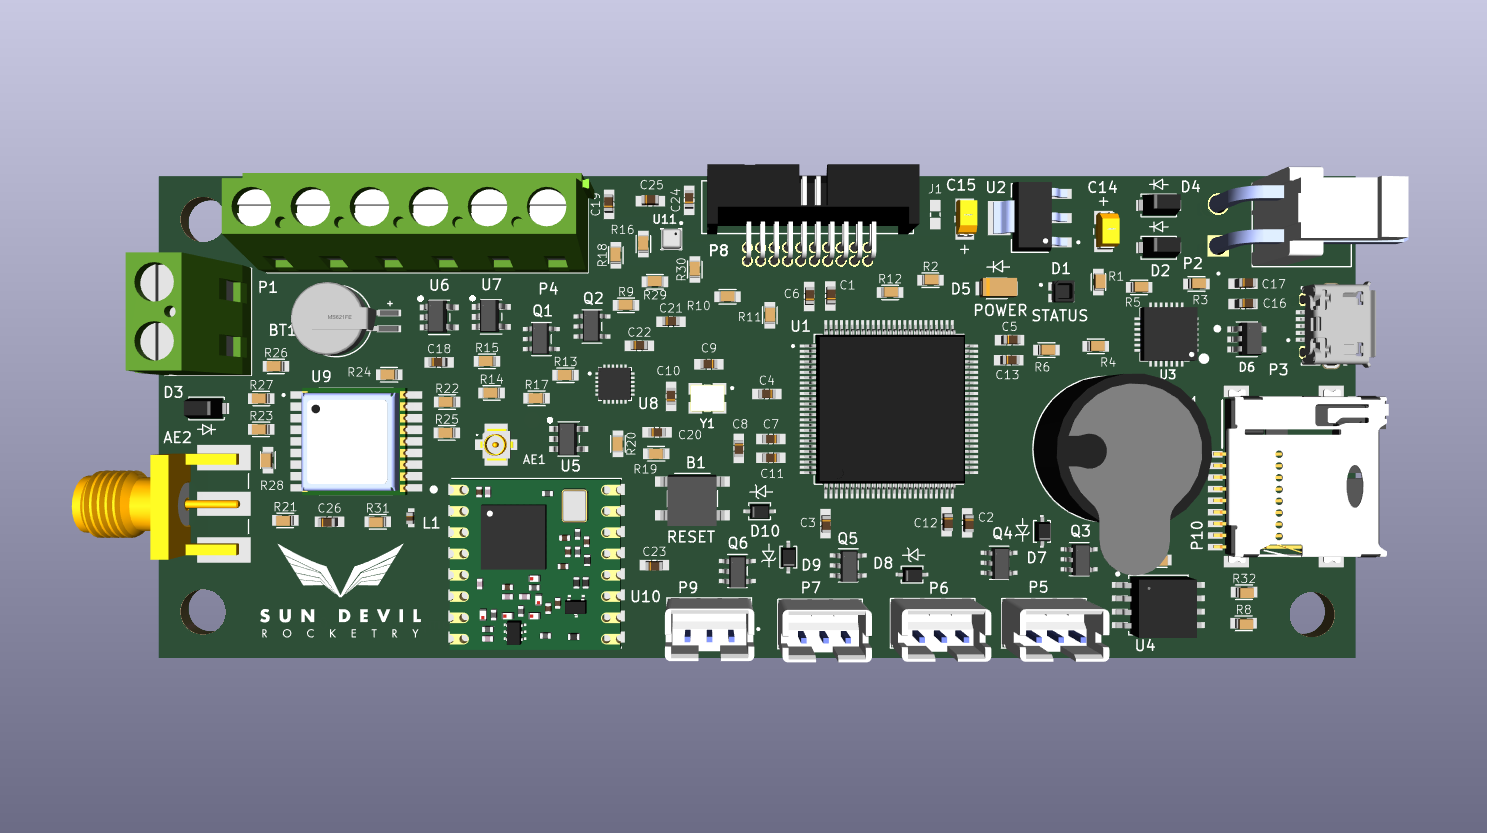
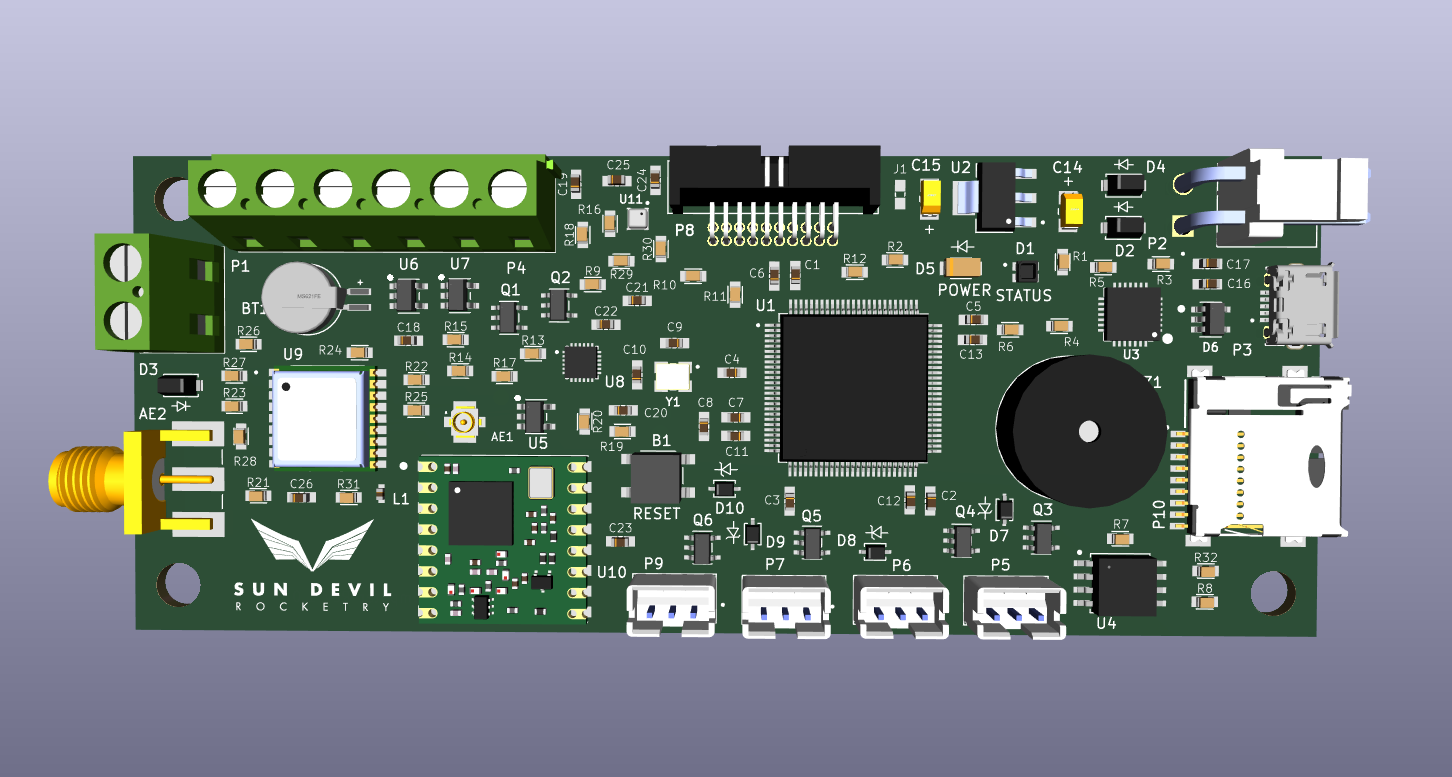
updated flight computer picture

Changed region(s): [[0.031, 0.1853, 0.9607, 0.834]]

diff --git a/index.html b/index.html
@@ -119,7 +119,7 @@
 											</ul>
 										</article>
 										<article>
-											<a href="construction.html" class="image"><img src="images/projects/Flight-Computer.png" alt="" /></a>
+											<a href="construction.html" class="image"><img src="images/projects/Flight-Computer-TOP.png" alt="" /></a>
 											<h3>Flight Computer</h3>
 											<p>Prototyping platform for flight control projects with embedded IMU, GPS, telemetry, and data logging peripherals.</p>
 											<ul class="actions">

diff --git a/projects.html b/projects.html
@@ -74,7 +74,7 @@
 											</ul>
 										</article>
 										<article>
-											<a href="construction.html" class="image"><img src="images/projects/Flight-Computer.png" alt="" /></a>
+											<a href="construction.html" class="image"><img src="images/projects/Flight-Computer-TOP.png" alt="" /></a>
 											<h3>Flight Computer</h3>
 											<p>Prototyping platform for flight control projects with embedded IMU, GPS, telemetry, and data logging peripherals.</p>
 											<ul class="actions">
